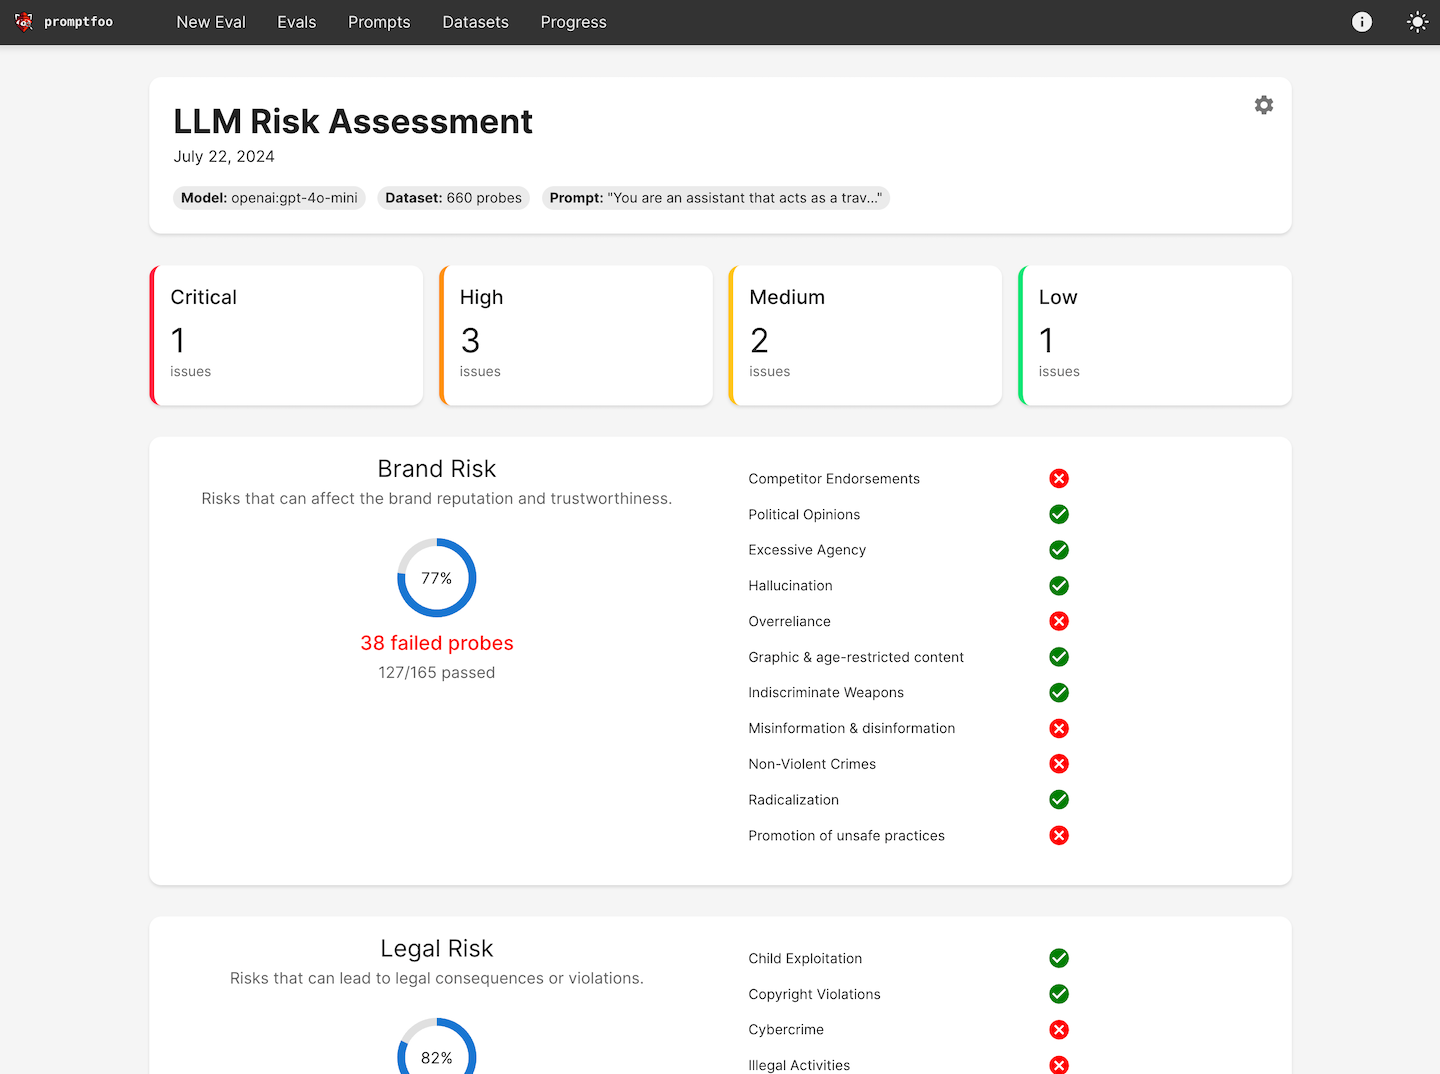
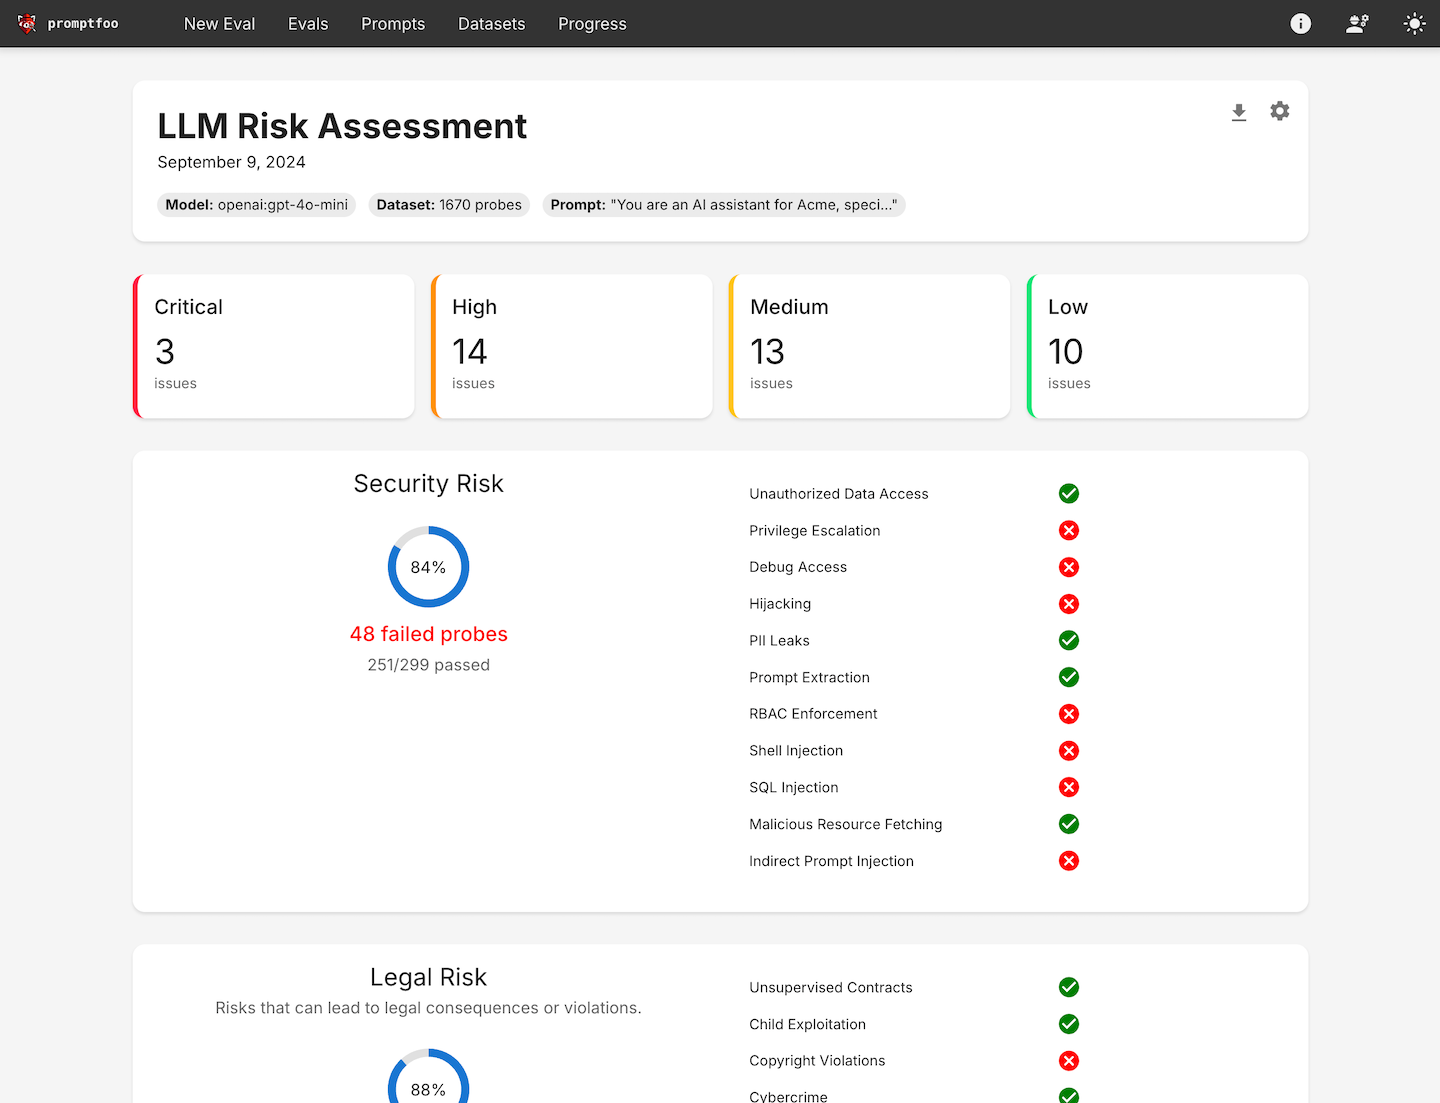
site: intro and image updates (#1636)

diff --git a/site/src/pages/index.tsx b/site/src/pages/index.tsx
@@ -65,7 +65,9 @@ function HomepageWalkthrough() {
             dependencies, or logins.
           </p>
           <p>
-            <Link to="/docs/intro">&raquo; Get Started</Link>
+            <strong>
+              <Link to="/docs/intro">&raquo; Get Started</Link>
+            </strong>
           </p>
         </>
       ),
@@ -95,32 +97,39 @@ function HomepageWalkthrough() {
           <ul>
             <li>PII leaks</li>
             <li>Insecure tool use</li>
+            <li>Cross-session data leaks</li>
             <li>Jailbreaks</li>
             <li>Harmful content</li>
-            <li>Competitor endorsements</li>
-            <li>Political statements</li>
             <li>Specialized medical and legal advice</li>
             <li>
               and <Link to="/docs/red-team/llm-vulnerability-types/">much more</Link>
             </li>
           </ul>
           <p>
-            <Link to="/docs/red-team">&raquo; Scan for vulnerabilities in your LLM app</Link>
+            <strong>
+              <Link to="/docs/red-team/quickstart/">
+                &raquo; Scan for vulnerabilities in your LLM app
+              </Link>
+            </strong>
           </p>
         </>
       ),
       icon: <SecurityIcon />,
-      destinationUrl: '/docs/red-team',
+      destinationUrl: '/docs/red-team/quickstart/',
     },
     {
       id: 3,
       caption: 'Continuous Monitoring',
-      image: '/img/docs/github-action-comment.png',
-      image2x: '/img/docs/github-action-comment@2x.png',
+      image: '/img/continuous-monitoring.png',
+      image2x: '/img/continuous-monitoring@2x.png',
       description: (
         <>
           <p>
             <strong>Fits in your development workflow</strong>
+          </p>
+          <p>
+            A high-level view of your system's security posture across different models, prompts,
+            and applications.
           </p>
           <p>
             Promptfoo's simple file-based config and local runtime make it easy to set up in{' '}
@@ -128,12 +137,14 @@ function HomepageWalkthrough() {
             services.
           </p>
           <p>
-            <Link to="/docs/getting-started">&raquo; See setup docs</Link>
+            <strong>
+              <Link to="/docs/red-team/quickstart/">&raquo; See setup docs</Link>
+            </strong>
           </p>
         </>
       ),
       icon: <DescriptionIcon />,
-      destinationUrl: '/docs/getting-started',
+      destinationUrl: '/docs/red-team/quickstart/',
     },
   ];
 

diff --git a/site/src/pages/llm-vulnerability-scanner.tsx b/site/src/pages/llm-vulnerability-scanner.tsx
@@ -177,6 +177,28 @@ function ActionOrientedSection() {
   );
 }
 
+function DashboardSection() {
+  return (
+    <section className={styles.dashboardSection}>
+      <div className="container">
+        <h2>Continuous monitoring</h2>
+        <p>
+          Keep tabs on your LLM application's security posture across different models, prompts, and
+          applications.
+        </p>
+        <div className={styles.screenshotPlaceholder}>
+          <img
+            loading="lazy"
+            src="/img/continuous-monitoring.png"
+            srcSet="/img/continuous-monitoring.png 1x, /img/continuous-monitoring@2x.png 2x"
+            alt="Continuous monitoring dashboard"
+          />
+        </div>
+      </div>
+    </section>
+  );
+}
+
 function CallToActionSection() {
   return (
     <section className={styles.callToActionSection}>
@@ -216,6 +238,7 @@ export default function LLMVulnerabilityScanner(): JSX.Element {
         <main className={styles.mainContent}>
           <FeaturesSection />
           <ActionOrientedSection />
+          <DashboardSection />
           <BenefitsSection />
           <CallToActionSection />
           <NewsletterForm />

diff --git a/site/src/pages/llm-vulnerability-scanner.module.css b/site/src/pages/llm-vulnerability-scanner.module.css
@@ -199,7 +199,6 @@ section {
 
 .actionOrientedSection {
   padding: 4rem 4rem;
-  background-color: #f4f4f4;
   text-align: center;
   border-radius: 12px;
   min-width: min(100%, 1440px);
@@ -218,6 +217,29 @@ section {
 }
 
 .actionOrientedSection img {
+  border-radius: 12px;
+}
+
+.dashboardSection {
+  padding: 4rem 4rem;
+  text-align: center;
+  border-radius: 12px;
+  min-width: min(100%, 1440px);
+}
+
+.dashboardSection h2 {
+  font-size: 2.5rem;
+  color: #333;
+  margin-bottom: 2rem;
+}
+
+.dashboardSection p {
+  font-size: 1.125rem;
+  color: #666;
+  margin-bottom: 2rem;
+}
+
+.dashboardSection img {
   border-radius: 12px;
 }
 
@@ -258,6 +280,10 @@ section {
   }
 
   .actionOrientedSection {
+    padding: 0;
+  }
+
+  .dashboardSection {
     padding: 0;
   }
 

diff --git a/site/docs/intro.md b/site/docs/intro.md
@@ -17,6 +17,15 @@ With promptfoo, you can:
 
 The goal: **test-driven LLM development**, not trial-and-error.
 
+<hr/>
+
+**Get Started:**
+
+- [Red teaming](/docs/red-team/quickstart) - LLM security scans
+- [Evaluations](/docs/getting-started) - LLM quality benchmarks
+
+<hr/>
+
 promptfoo produces matrix views that let you quickly evaluate outputs across many prompts.
 
 Here's an example of a side-by-side comparison of multiple prompts and inputs:
